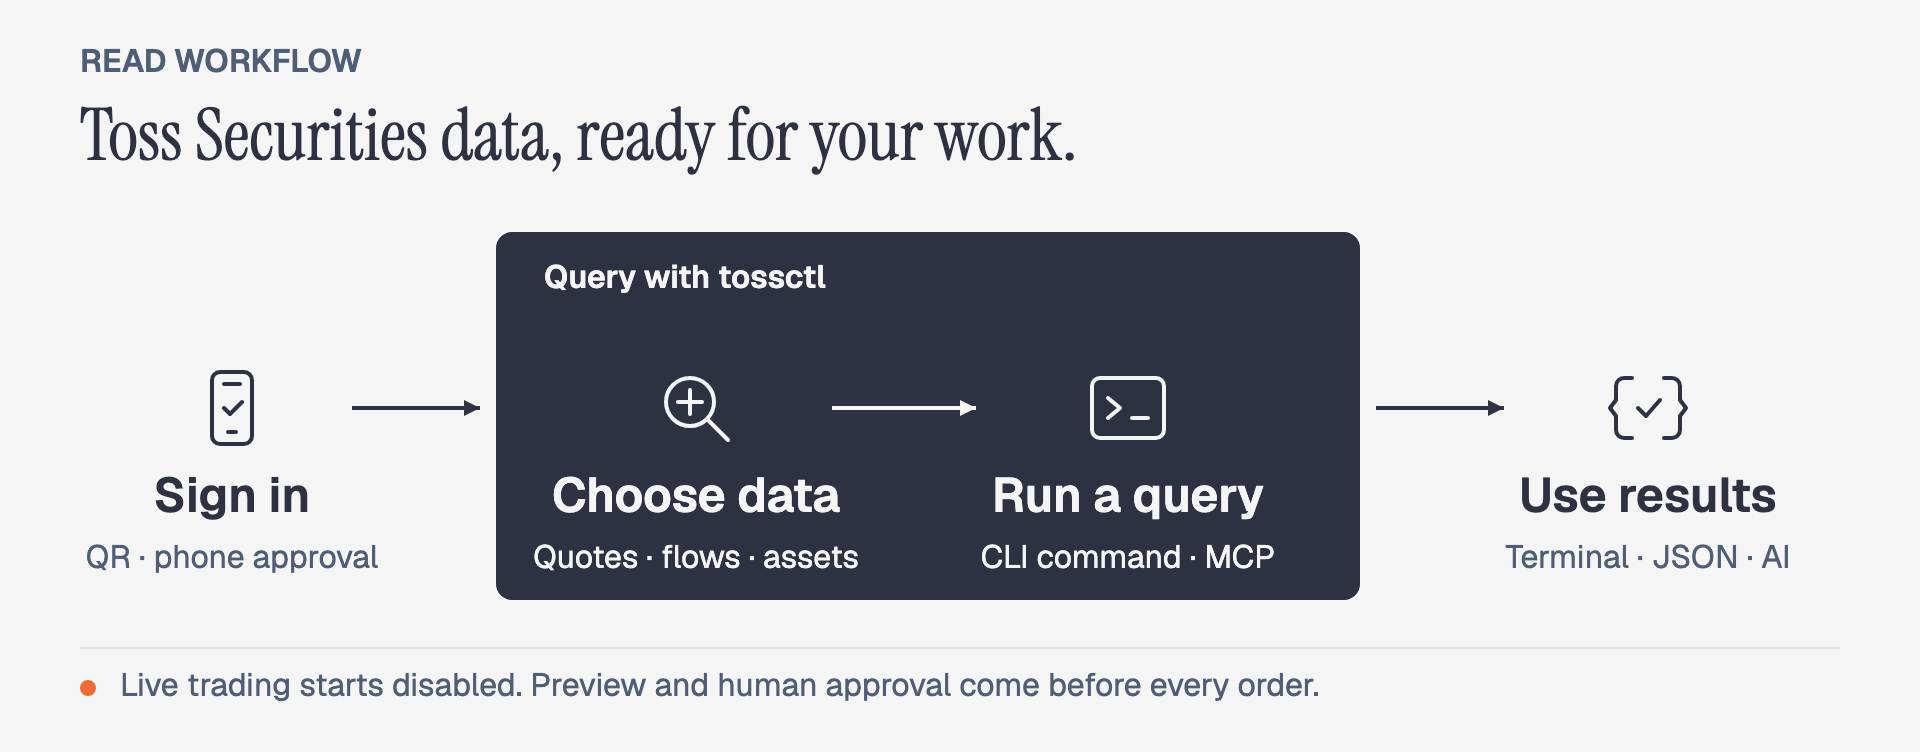
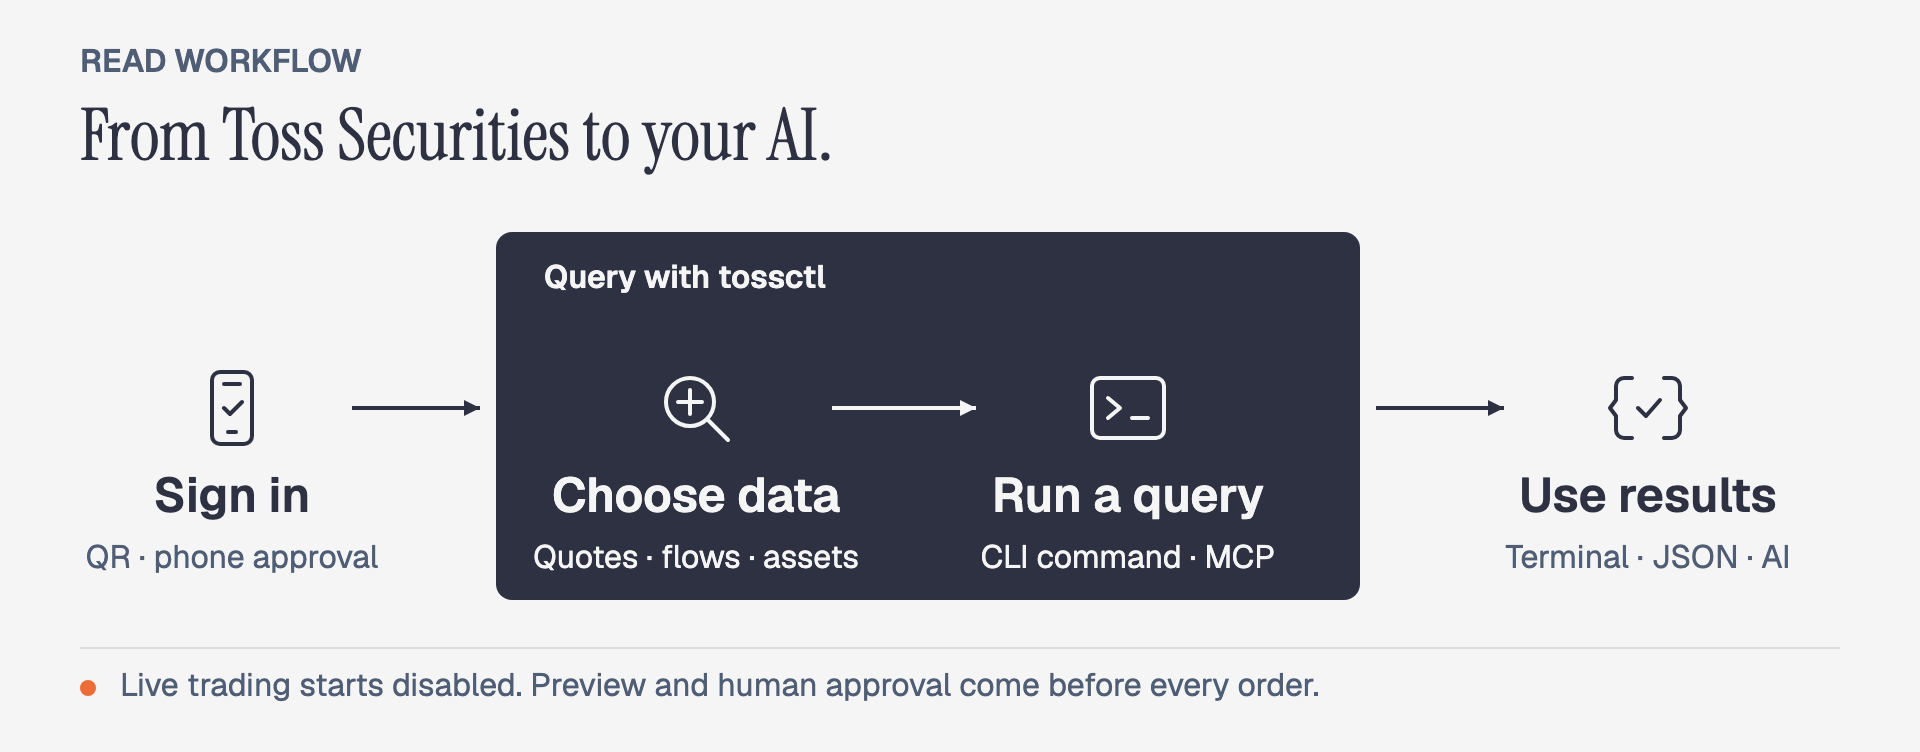
docs: 공식 API 밖의 기능과 사용자 가치 강조

Changed region(s): [[0.0312, 0.1223, 0.5625, 0.2141]]

diff --git a/diagrams/readme-workflow.en.html b/diagrams/readme-workflow.en.html
@@ -3,7 +3,7 @@
 <head>
 <meta charset="utf-8">
 <meta name="viewport" content="width=device-width, initial-scale=1">
-<title>Toss Securities data, ready for your work. — tossctl</title>
+<title>From Toss Securities to your AI. — tossctl</title>
 <!-- Diagram Design: fit frame, static editorial variation.
      User reference: simple workflow and a strong central system group.
      Approved default palette retained. Korean uses Pretendard as requested.
@@ -23,9 +23,9 @@ svg { display: block; width: 100%; height: auto; font-family: "Geist", sans-seri
 </style>
 </head>
 <body><main>
-<h1>Toss Securities data, ready for your work.</h1>
+<h1>From Toss Securities to your AI.</h1>
 <svg xmlns="http://www.w3.org/2000/svg" viewBox="0 0 960 376" role="img" aria-labelledby="readme-workflow.en-title readme-workflow.en-desc">
-<title id="readme-workflow.en-title">Toss Securities data, ready for your work.</title>
+<title id="readme-workflow.en-title">From Toss Securities to your AI.</title>
 <desc id="readme-workflow.en-desc">Sign in on your phone, select and query quotes, flows, accounts, or dividends through the CLI or MCP, then use the results in a terminal, JSON, or an AI answer. Live orders require a separate preview and approval.</desc>
 <defs>
 <marker id="readme-workflow.en-arrow-ink" viewBox="0 0 8 8" refX="8" refY="4" markerWidth="8" markerHeight="8" markerUnits="userSpaceOnUse" orient="auto"><path d="M0 0L8 4L0 8Z" fill="#2d3142"/></marker>
@@ -33,7 +33,7 @@ svg { display: block; width: 100%; height: auto; font-family: "Geist", sans-seri
 </defs>
 <rect x="0" y="0" width="960" height="376" rx="8" fill="#f5f5f5" stroke="none"/>
 <text x="40" y="36" font-size="16" font-weight="600" fill="#4f5d75" text-anchor="start" class="">READ WORKFLOW</text>
-<text x="40" y="80" font-size="32" font-weight="700" fill="#2d3142" text-anchor="start" class="figure-title">Toss Securities data, ready for your work.</text>
+<text x="40" y="80" font-size="32" font-weight="700" fill="#2d3142" text-anchor="start" class="figure-title">From Toss Securities to your AI.</text>
 <rect x="248" y="116" width="432" height="184" rx="8" fill="#2d3142" stroke="none"/>
 <text x="272" y="144" font-size="16" font-weight="600" fill="#f5f5f5" text-anchor="start" class="">Query with tossctl</text>
 <path d="M176 204H240" fill="none" stroke="#2d3142" stroke-width="2" marker-end="url(#readme-workflow.en-arrow-ink)"/>

diff --git a/diagrams/readme-workflow.html b/diagrams/readme-workflow.html
@@ -3,7 +3,7 @@
 <head>
 <meta charset="utf-8">
 <meta name="viewport" content="width=device-width, initial-scale=1">
-<title>토스증권 데이터를, 내 작업으로. — tossctl</title>
+<title>앱에서 보던 정보, 내 AI에서도. — tossctl</title>
 <!-- Diagram Design: fit frame, static editorial variation.
      User reference: simple workflow and a strong central system group.
      Approved default palette retained. Korean uses Pretendard as requested.
@@ -194,9 +194,9 @@ OTHER DEALINGS IN THE FONT SOFTWARE.
 <!-- pretendard-embed:end -->
 </head>
 <body><main>
-<h1>토스증권 데이터를, 내 작업으로.</h1>
+<h1>앱에서 보던 정보, 내 AI에서도.</h1>
 <svg xmlns="http://www.w3.org/2000/svg" viewBox="0 0 960 376" role="img" aria-labelledby="readme-workflow-title readme-workflow-desc">
-<title id="readme-workflow-title">토스증권 데이터를, 내 작업으로.</title>
+<title id="readme-workflow-title">앱에서 보던 정보, 내 AI에서도.</title>
 <desc id="readme-workflow-desc">휴대폰으로 로그인한 뒤 tossctl의 CLI나 MCP에서 시세·수급·계좌·배당을 조회하고, 터미널·JSON·AI 답변으로 활용합니다. 실주문은 별도 미리보기와 승인이 필요합니다.</desc>
 <defs>
 <marker id="readme-workflow-arrow-ink" viewBox="0 0 8 8" refX="8" refY="4" markerWidth="8" markerHeight="8" markerUnits="userSpaceOnUse" orient="auto"><path d="M0 0L8 4L0 8Z" fill="#2d3142"/></marker>
@@ -204,7 +204,7 @@ OTHER DEALINGS IN THE FONT SOFTWARE.
 </defs>
 <rect x="0" y="0" width="960" height="376" rx="8" fill="#f5f5f5" stroke="none"/>
 <text x="40" y="36" font-size="16" font-weight="600" fill="#4f5d75" text-anchor="start" class="">사용 흐름</text>
-<text x="40" y="80" font-size="32" font-weight="700" fill="#2d3142" text-anchor="start" class="figure-title">토스증권 데이터를, 내 작업으로.</text>
+<text x="40" y="80" font-size="32" font-weight="700" fill="#2d3142" text-anchor="start" class="figure-title">앱에서 보던 정보, 내 AI에서도.</text>
 <rect x="248" y="116" width="432" height="184" rx="8" fill="#2d3142" stroke="none"/>
 <text x="272" y="144" font-size="16" font-weight="600" fill="#f5f5f5" text-anchor="start" class="">tossctl로 조회</text>
 <path d="M176 204H240" fill="none" stroke="#2d3142" stroke-width="2" marker-end="url(#readme-workflow-arrow-ink)"/>

diff --git a/README.md b/README.md
@@ -7,8 +7,8 @@
 <h1 align="center">tossinvest-cli</h1>
 
 <p align="center">
-  <strong>토스증권을 터미널과 AI 에이전트에서.</strong>
-  <br />시세·계좌·주문부터 수급·AI 시그널·배당까지, <code>tossctl</code> 하나로.
+  <strong>공식 API에서 빠진 투자 정보까지, 내 AI에게.</strong>
+  <br />수급·토스 AI 시그널·배당·관심종목을 터미널과 AI 앱에 연결하는 <code>tossctl</code>.
 </p>
 
 <p align="center">
@@ -19,7 +19,7 @@
 
 <p align="center">
   <a href="#빠른-시작"><strong>빠른 시작</strong></a> ·
-  <a href="#왜-tossctl인가"><strong>왜 tossctl인가</strong></a> ·
+  <a href="#공식-api만으로는-빠지는-것들"><strong>더 쓸 수 있는 기능</strong></a> ·
   <a href="#ai와-함께-사용하기"><strong>AI 연결</strong></a> ·
   <a href="#주문-전-확인하세요"><strong>주문 전 확인</strong></a> ·
   <a href="https://tossinvest-cli.vercel.app/docs"><strong>문서</strong></a>
@@ -28,15 +28,24 @@
 > [!WARNING]
 > 이 프로젝트는 토스증권 공식 제품이 아닙니다. 공식 Open API 외 기능은 토스증권 웹 내부 API를 비공식적으로 사용하며, 이용약관 위반에 해당할 수 있고 예고 없이 변경될 수 있습니다. 계좌 제한·손실 등 사용 결과는 사용자 본인의 책임입니다.
 
-## 왜 tossctl인가?
+## 공식 API만으로는 빠지는 것들
+
+계좌·보유 종목·주문은 공식 API로도 연결할 수 있습니다. **tossctl은 거기서 빠지는 정보와 관리 기능까지 내 AI와 자동화에 연결합니다.**
+
+| 하고 싶은 일 | 공식 Open API | tossctl |
+|---|:---:|---|
+| 누가 사고파는지 수급 확인 | 미지원 | 투자자별 순매수 조회 |
+| 토스 AI 시그널 함께 보기 | 미지원 | 시장·종목별 시그널 조회 |
+| 내 배당 내역 모아 보기 | 미지원 | 배당 내역 조회 |
+| 관심종목·목표가 알림 관리 | 미지원 | 목록 조회와 변경 |
+
+**“잔고가 얼마야?”에서 “수급과 토스 AI 시그널도 함께 보여줘”로.** 앱에서 따로 확인하던 정보를 이제 내 AI에게 요청하세요.
 
 <p align="center">
   <img src="diagrams/readme-workflow.png" alt="휴대폰으로 로그인하고 시세·수급·계좌·배당을 선택해 CLI나 MCP로 조회합니다. 결과는 터미널·JSON·AI 답변으로 활용하며, 실주문은 별도 미리보기와 사람의 승인이 필요합니다." width="100%" />
 </p>
 
-공식 Open API에 없는 **투자자 수급·AI 시그널·배당 내역·관심종목 관리**까지 WTS(토스증권 웹 내부 API)로 연결합니다. 조회 결과는 화면에서 읽거나 JSON으로 받아 스크립트와 AI 에이전트에 넘길 수 있습니다.
-
-지원 대상은 **토스증권**입니다. 일반 토스뱅킹·카드 소비 내역은 지원하지 않습니다. [전체 기능 비교 →](https://tossinvest-cli.vercel.app/docs/reference/support-scope)
+위 추가 기능은 WTS(토스증권 웹 내부 API)를 사용합니다. 지원 대상은 **토스증권**이며, 일반 토스뱅킹·카드 소비 내역은 포함하지 않습니다. [전체 기능 비교 →](https://tossinvest-cli.vercel.app/docs/reference/support-scope)
 
 ## 빠른 시작
 
@@ -130,7 +139,7 @@ claude mcp add tossctl tossctl mcp
 
 연결한 에이전트에 이렇게 요청하세요.
 
-> 내 보유 종목과 배당 내역을 정리해 줘.
+> 삼성전자 투자자별 수급과 토스 AI 시그널을 함께 정리해 줘.
 
 Codex·Cursor 등 앱별 등록 방법은 [MCP 가이드](https://tossinvest-cli.vercel.app/docs/guide/mcp)를 참고하세요.
 

diff --git a/README.en.md b/README.en.md
@@ -7,8 +7,8 @@
 <h1 align="center">tossinvest-cli</h1>
 
 <p align="center">
-  <strong>Toss Securities from your terminal and AI agents.</strong>
-  <br />Quotes, accounts, and orders — plus flows, AI signals, and dividends. One <code>tossctl</code>.
+  <strong>Give your AI the investment data the official API leaves out.</strong>
+  <br />Investor flows, Toss AI signals, dividends, and watchlists — in your terminal and AI apps with <code>tossctl</code>.
 </p>
 
 <p align="center">
@@ -19,7 +19,7 @@
 
 <p align="center">
   <a href="#quick-start"><strong>Quick Start</strong></a> ·
-  <a href="#why-tossctl"><strong>Why tossctl</strong></a> ·
+  <a href="#what-the-official-api-leaves-out"><strong>Go Beyond the API</strong></a> ·
   <a href="#use-it-with-ai"><strong>Connect AI</strong></a> ·
   <a href="#before-you-place-an-order"><strong>Before Trading</strong></a> ·
   <a href="https://tossinvest-cli.vercel.app/en/docs"><strong>Docs</strong></a>
@@ -28,15 +28,24 @@
 > [!WARNING]
 > This is not an official Toss Securities product. Features outside the official Open API use Toss Securities' internal web API unofficially, may violate its Terms of Service, and can change without notice. You are responsible for account restrictions, losses, and other consequences of use.
 
-## Why tossctl?
+## What the Official API Leaves Out
+
+The official API already connects accounts, holdings, and orders. **tossctl brings the missing data and management tools into your AI and automation too.**
+
+| What you want to do | Official Open API | tossctl |
+|---|:---:|---|
+| See who is buying and selling | Not supported | Net buying by investor type |
+| Bring in Toss AI signals | Not supported | Market and stock signals |
+| Review your dividend history | Not supported | Dividend records |
+| Manage watchlists and price alerts | Not supported | Read and update your lists |
+
+**Go from “What's my balance?” to “Show me investor flows and Toss AI signals too.”** Ask your AI for the information you used to check separately in the app.
 
 <p align="center">
   <img src="diagrams/readme-workflow.en.png" alt="Sign in on your phone, select quotes, flows, accounts, or dividends, and query through the CLI or MCP. Use results in a terminal, JSON, or an AI answer. Live orders require a separate preview and human approval." width="100%" />
 </p>
 
-Access **investor flows, AI signals, dividend history, and watchlist management** beyond the official Open API through WTS, Toss Securities' internal web API. Read results in your terminal or pass JSON to scripts and AI agents.
-
-The scope is **Toss Securities**. General Toss banking and card spending are not supported. [Compare all supported features →](https://tossinvest-cli.vercel.app/en/docs/reference/support-scope)
+These extra features use WTS, Toss Securities' internal web API. The scope is **Toss Securities**, excluding general Toss banking and card spending. [Compare all supported features →](https://tossinvest-cli.vercel.app/en/docs/reference/support-scope)
 
 ## Quick Start
 
@@ -130,7 +139,7 @@ claude mcp add tossctl tossctl mcp
 
 Ask your connected agent:
 
-> Summarize my holdings and dividend history.
+> Summarize investor flows and Toss AI signals for Samsung Electronics.
 
 See the [MCP guide](https://tossinvest-cli.vercel.app/en/docs/guide/mcp) for Codex, Cursor, and other apps.
 
